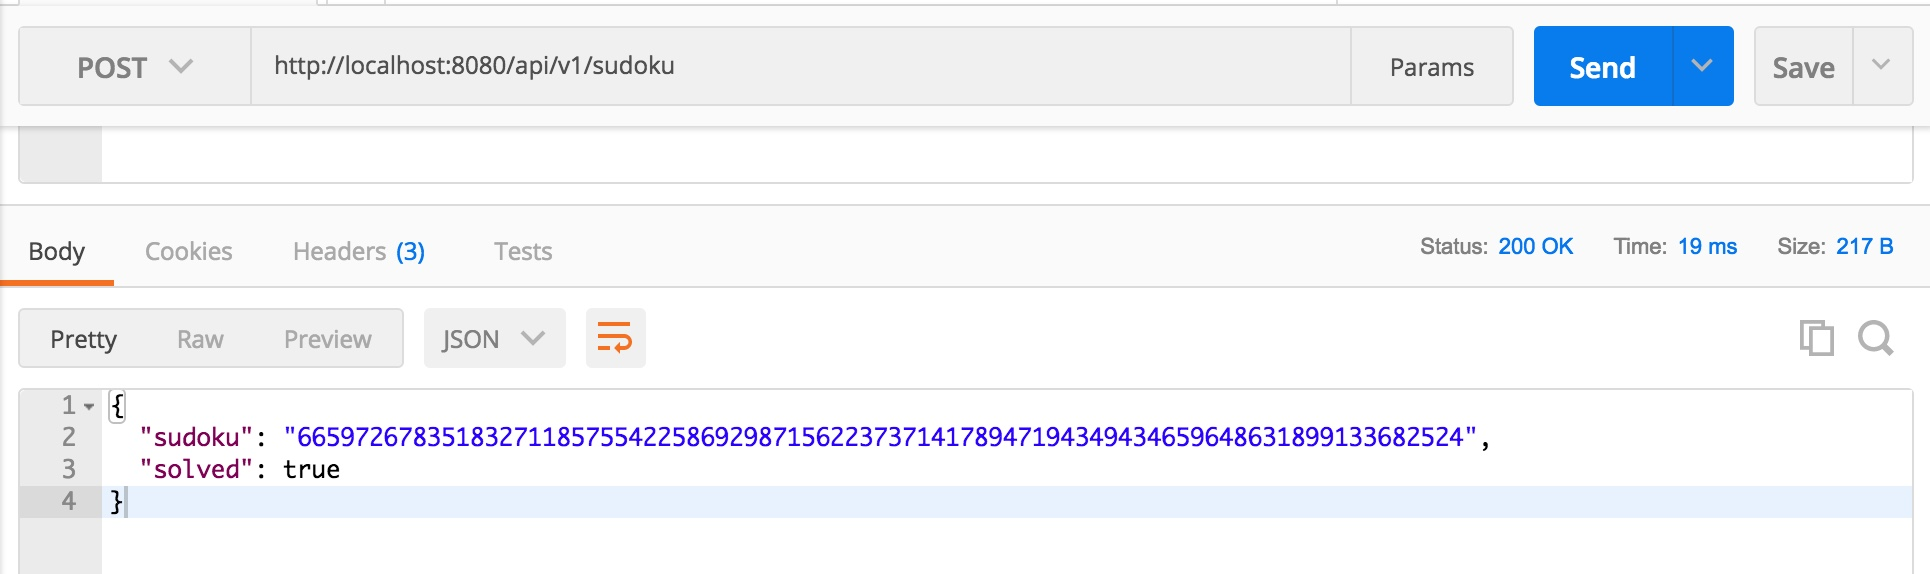
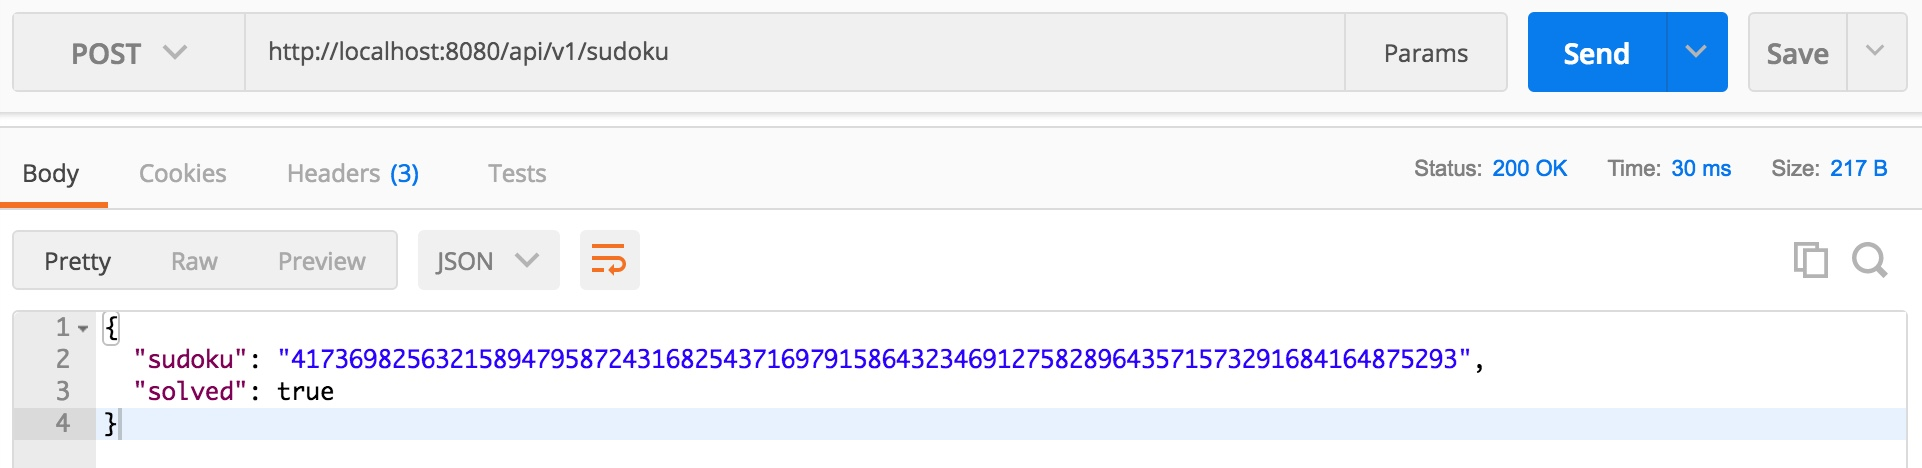
Fix API string response rendering

diff --git a/api/bundles/sudoku_bundle/sudoku_controller.go b/api/bundles/sudoku_bundle/sudoku_controller.go
@@ -2,6 +2,7 @@ package sudokubundle
 
 import (
 	"net/http"
+	"sort"
 
 	"github.com/laurentlp/sudoku-solver/api/common"
 	"github.com/laurentlp/sudoku-solver/api/errors"
@@ -43,9 +44,15 @@ func (s *SudokuController) Solve(w http.ResponseWriter, r *http.Request) {
 
 // ToString convert the solved sudoku (map[string]string) to as string of values
 func toString(solvedSudoku map[string]string) (res string) {
-
-	for _, v := range solvedSudoku {
-		res += v
+	keys := []string{}
+	for k := range solvedSudoku {
+		keys = append(keys, k)
 	}
+
+	sort.Strings(keys)
+	for _, k := range keys {
+		res += solvedSudoku[k]
+	}
+
 	return res
 }
